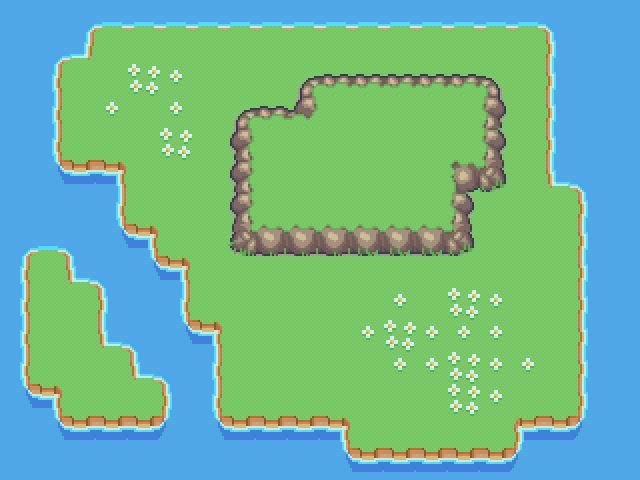
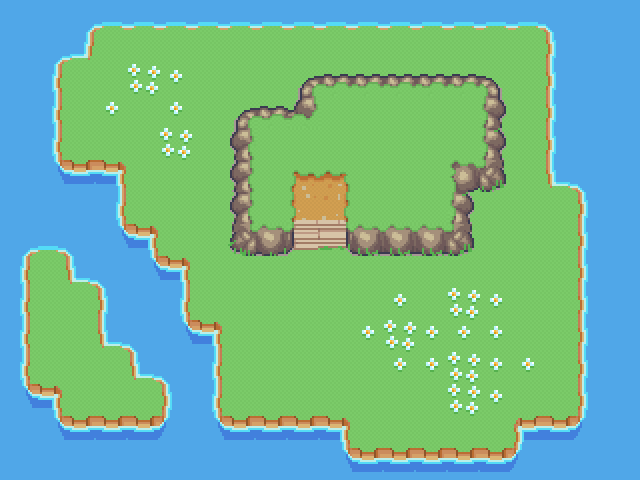
Added more main.py functionality and error tiles display

Changed region(s): [[0.4375, 0.3438, 0.5625, 0.5312]]

diff --git a/map.py b/map.py
@@ -1,8 +1,6 @@
-from PIL import Image, ImageChops
+from PIL import Image
 import pygame
 import const
-import random
-from math import sqrt, ceil
 from tile import Tile
 
 pygame.init()
@@ -12,17 +10,20 @@ class Map:
         self.rows = rows
         self.columns = columns
         self.sample_image = Image.open(sample_image_path).convert('RGBA')
-        self.tileset = []#Pillow -> Image
-        self.tileset_images = []#Pygame -> Surface
-        self.sample_map = []
+        self.tileset = []#Pygame -> Surface
+        self.tileset_images = []#Pillow -> Image
 
+        self.sample_map = []
         self.constraints = []
 
+        self.parse_tileset()
+        self.calculate_constraints()
+
     def unique_tile(self, image):
-        if (len(self.tileset) == 0):
+        if (len(self.tileset_images) == 0):
             return -1
         
-        for index, tile in enumerate(self.tileset):
+        for index, tile in enumerate(self.tileset_images):
             if list(tile.getdata()) == list(image.getdata()):
                 return index
         
@@ -42,19 +43,21 @@ class Map:
                 image_row.append(image)
                 if image.getextrema()[3][0] != 0:
                     if self.unique_tile(image) == -1:
-                        self.tileset.append(image)
+                        self.tileset_images.append(image)
 
-                        self.tileset_images.append(const.image_to_surface(image))
+                        self.tileset.append(const.image_to_surface(image))
             image_map.append(image_row)
 
-        self.sample_map = [[Tile(r, c, self.tileset_images, True, 0) for c in range(image_columns)] for r in range(image_rows)]
+        self.sample_map = [[Tile(r, c, self.tileset, True, 0) for c in range(image_columns)] for r in range(image_rows)]
         for row, image_row in enumerate(image_map):
             for column, image in enumerate(image_row):
                 self.sample_map[row][column].tile = self.unique_tile(image)
 
+    #Return the indexes of top, bottom, left and right neighbors of a given index
     def find_neighboring_sides(self, row, column):
         # 0 = top side, 1 = bottom side, 2 = left side, 3 = right side
-        return [(row-1, column), (row+1, column), (row, column-1), (row, column+1)]
+        neighboring_sides = [(row-1, column) if row > 0 else None, (row+1, column) if row < self.rows-1 else None, (row, column-1) if column > 0 else None, (row, column+1)  if column < self.columns-1 else None]
+        return filter(lambda val: val !=  None, neighboring_sides)
 
     # Calculates the allowed adjacent tiles to each tile type
     def calculate_constraints(self):
@@ -79,99 +82,18 @@ class Map:
             for c, tile in enumerate(row):
                 tile.draw(offset, screen)
 
-    # Takes a contraints list and inverts each side's set
-    def invert_adjacent(self, adjacent):
-        constraint = []
-        for side in adjacent:
-            constraint_side = set()
-            for i in range(len(self.tileset)):
-                if i not in side:
-                    constraint_side.add(i)
-            constraint.append(constraint_side)
-        return constraint
-
     # Takes a 2d array of Tiles and returns an 2d array of surfaces using the tileset
-    def map_to_surfaces(self, map):
+    @staticmethod
+    def map_to_surfaces(map, tileset):
         new_map = []
 
         for row in map:
             new_row = []
             for tile in row:
                 if tile.get_entropy() == 1:
-                    new_row.append(self.tileset_images[tile.tile])
+                    new_row.append(tileset[tile.tile])
                 else:
                     new_row.append(None)
             new_map.append(new_row)
         
         return new_map
-
-    # Generates a new pseudo-random map to the sample map
-    def generate_map(self):
-        generated_map = [[Tile(row, column, self.tileset_images) for column in range(self.columns)] for row in range(self.rows)]
-
-        error_tiles = []
-
-        def propagate(map, row, column):
-            to_change = [(row, column)]
-
-            while len(to_change) != 0:
-                for row, column in to_change.copy():
-                    p_tile = map[row][column]
-
-                    if p_tile.get_entropy() > 0:
-                        #get contraints from collapsed tile
-                        p_constraint = [set(), set(), set(), set()]
-                        if p_tile.collapsed:
-                            p_constraint = self.constraints[p_tile.tile]
-                        else:
-                            for possibility in p_tile.wave:
-                                for i, side in enumerate(self.constraints[possibility]):
-                                    p_constraint[i] = p_constraint[i].union(side)
-                        #We need to remove the possibilites THAT AREN'T in p_contraint, so we invert it to check
-                        p_constraint = self.invert_adjacent(p_constraint)
-
-                        p_neighbors = self.find_neighboring_sides(row, column)
-                        side_coords = p_tile.update_neighbors(map, p_neighbors, p_constraint)
-                        for side_coord in side_coords:
-                            if side_coord not in to_change:
-                                to_change.append(side_coord)
-                            
-                            if map[side_coord[0]][side_coord[1]].get_entropy() == 0:
-                                error_tiles.append(side_coord)
-
-                    p_tile.counter += 1
-                    to_change.remove((row, column))
-
-        def find_next_tile(map):
-            lowest_entropy = len(self.tileset)+1
-            lowest_coords = []
-
-            for row in range(len(map)):
-                for column in range(len(map[row])):
-                    tile = map[row][column]
-                    if not tile.collapsed:
-                        tile_entropy = tile.get_entropy()
-                        if 0 < tile_entropy < lowest_entropy:
-                            lowest_entropy = tile_entropy
-                            lowest_coords = [(row, column)]
-                        elif tile_entropy == lowest_entropy:
-                            lowest_coords.append((row, column))
-            if len(lowest_coords) != 0:
-                return lowest_coords[random.randint(0, len(lowest_coords)-1)]
-
-        def collapse_tile(map, row, column):
-            map[row][column].tile = map[row][column].wave[random.randrange(len(map[row][column].wave))]
-
-            map[row][column].collapsed = True
-
-        while (next_tile := find_next_tile(generated_map)) != None:
-            current_row = next_tile[0]
-            current_column = next_tile[1]
-            collapse_tile(generated_map, current_row, current_column)
-
-            propagate(generated_map, current_row, current_column)
-
-        for row in generated_map:
-            print([tile.counter for tile in row])
-
-        return generated_map, error_tiles

diff --git a/generator.py b/generator.py
@@ -1,0 +1,89 @@
+import random
+from tile import Tile
+from map import Map
+
+class Generator:
+    @staticmethod
+    def propagate(map, function, error_tiles, row, column):
+        to_change = [(row, column)]
+
+        while len(to_change) != 0:
+            for row, column in to_change.copy():
+                p_tile = function[row][column]
+
+                if p_tile.get_entropy() > 0:
+                    #get contraints from collapsed tile
+                    p_constraint = [set(), set(), set(), set()]
+                    if p_tile.collapsed:
+                        p_constraint = map.constraints[p_tile.tile]
+                    else:
+                        for possibility in p_tile.wave:
+                            for i, side in enumerate(map.constraints[possibility]):
+                                p_constraint[i] = p_constraint[i].union(side)
+                    #We need to remove the possibilites THAT AREN'T in p_contraint, so we invert it to check
+                    p_constraint = Generator.invert_adjacent(p_constraint, len(map.tileset))
+
+                    p_neighbors = map.find_neighboring_sides(row, column)
+                    side_coords = p_tile.update_neighbors(function, p_neighbors, p_constraint)
+                    for side_coord in side_coords:
+                        if side_coord not in to_change:
+                            to_change.append(side_coord)
+                        
+                        if function[side_coord[0]][side_coord[1]].get_entropy() == 0:
+                            error_tiles.append(side_coord)
+
+                p_tile.counter += 1
+                to_change.remove((row, column))
+        
+        return function, error_tiles
+
+    @staticmethod
+    def find_next_tile(function, tileset):
+        lowest_entropy = len(tileset)+1
+        lowest_coords = []
+
+        for row in range(len(function)):
+            for column in range(len(function[row])):
+                tile = function[row][column]
+                if not tile.collapsed:
+                    tile_entropy = tile.get_entropy()
+                    if 0 < tile_entropy < lowest_entropy:
+                        lowest_entropy = tile_entropy
+                        lowest_coords = [(row, column)]
+                    elif tile_entropy == lowest_entropy:
+                        lowest_coords.append((row, column))
+        if len(lowest_coords) != 0:
+            return lowest_coords[random.randint(0, len(lowest_coords)-1)]
+
+    @staticmethod
+    def collapse_tile(function, row, column):
+        function[row][column].tile = function[row][column].wave[random.randrange(len(function[row][column].wave))]
+
+        function[row][column].collapsed = True
+
+    # Takes a contraints list and inverts each side's set
+    @staticmethod
+    def invert_adjacent(adjacent, num_of_tiles):
+        constraint = []
+        for side in adjacent:
+            constraint_side = set()
+            for i in range(num_of_tiles):
+                if i not in side:
+                    constraint_side.add(i)
+            constraint.append(constraint_side)
+        return constraint
+
+    @staticmethod
+    def generate(map):
+        generated_map = [[Tile(row, column, map.tileset) for column in range(map.columns)] for row in range(map.rows)]
+
+        error_tiles = []
+
+        while (next_tile := Generator.find_next_tile(generated_map, map.tileset)) != None:
+            current_row = next_tile[0]
+            current_column = next_tile[1]
+            Generator.collapse_tile(generated_map, current_row, current_column)
+
+            generated_map, error_tiles = Generator.propagate(map, generated_map, error_tiles, current_row, current_column)
+
+        return generated_map, error_tiles

diff --git a/main.py b/main.py
@@ -1,6 +1,8 @@
 import pygame
 import const
+from generator import Generator
 from map import Map
+from tile import Tile
 
 pygame.init()
 
@@ -12,18 +14,19 @@ screen = pygame.display.set_mode((WIDTH, HEIGHT))
 
 clock = pygame.time.Clock()
 
-map = Map(50, 50, const.SAMPLE_IMAGE_PATH)
-map.parse_tileset()
-map.calculate_constraints()
+map = Map(30, 30, const.SAMPLE_IMAGE_PATH)
 
+# new_map, error_tiles = Generator.generate(map)
+# new_map_image = const.surfaces_to_image(len(new_map) * const.TILE_SIZE, len(new_map[0]) * const.TILE_SIZE, Map.map_to_surfaces(new_map, map.tileset))
 
-new_map, error_tiles = map.generate_map()
-new_map_image = const.surface_to_image(len(new_map) * const.TILE_SIZE, len(new_map[0]) * const.TILE_SIZE, map.map_to_surfaces(new_map))
+new_map = [[Tile(row, column, map.tileset) for column in range(map.columns)] for row in range(map.rows)]
+new_map_image = pygame.Surface((0, 0))
+error_tiles = []
 
-# while error_tiles == []:
-#     new_map, error_tiles = map.generate_map()
+generate_map = True
 
-draw_map_array = False
+draw_map_array = True
+draw_error_tiles = False
 
 def redrawGameWindow():
     screen.fill((255, 255, 255))
@@ -32,6 +35,10 @@ def redrawGameWindow():
         map.draw_map(screen, new_map, scroll)
     else:
         screen.blit(new_map_image, scroll)
+
+    if draw_error_tiles:
+        for tile in error_tiles:
+            pygame.draw.rect(screen, (255, 0, 0), [tile[1]*TILE_SIZE+scroll[0], tile[0]*TILE_SIZE+scroll[1], TILE_SIZE, TILE_SIZE])
     # map.draw_map(screen, map.sample_map, [map.columns*const.TILE_SIZE+scroll[0], scroll[1]])
 
     pygame.display.update()
@@ -49,13 +56,19 @@ while running:
         if event.type == pygame.KEYDOWN:
             if event.key == pygame.K_LCTRL:
                 running = False
-            
+
+            if event.key == pygame.K_e:
+                draw_error_tiles = not draw_error_tiles
+
             if event.key == pygame.K_SPACE:
                 draw_map_array = not draw_map_array
             
             if event.key == pygame.K_r:
-                new_map = map.generate_map()
-                new_map_image = const.surface_to_image(len(new_map) * const.TILE_SIZE, len(new_map[0]) * const.TILE_SIZE, map.map_to_surfaces(new_map))
+                new_map = [[Tile(row, column, map.tileset) for column in range(map.columns)] for row in range(map.rows)]
+                new_map_image = pygame.Surface((0, 0))
+                error_tiles = []
+
+                generate_map = True
 
     keyboard = pygame.key.get_pressed()
 
@@ -71,5 +84,16 @@ while running:
     if keyboard[pygame.K_DOWN]:
         scroll[1] -= scrol_speed
     
+    if generate_map and (next_tile := Generator.find_next_tile(new_map, map.tileset)) != None:
+        current_row = next_tile[0]
+        current_column = next_tile[1]
+        Generator.collapse_tile(new_map, current_row, current_column)
+
+        new_map, error_tiles = Generator.propagate(map, new_map, error_tiles, current_row, current_column)
+    elif generate_map:
+        generate_map = False
+        new_map_image = const.surfaces_to_image(len(new_map) * const.TILE_SIZE, len(new_map[0]) * const.TILE_SIZE, Map.map_to_surfaces(new_map, map.tileset))
+        print("New Map Generated.")
+
     redrawGameWindow()
 pygame.quit()

diff --git a/const.py b/const.py
@@ -1,10 +1,11 @@
 import pygame
 
-SAMPLE_IMAGE_PATH = "images/sample_image.png"
+# SAMPLE_IMAGE_PATH = "images/sample_image.png"
+SAMPLE_IMAGE_PATH = "images/error_sample_image.png"
 
 FPS = 60
 
-TILE_SIZE = 16
+TILE_SIZE = 32
 
 def image_to_surface(image):
     # Calculate mode, size and data
@@ -14,7 +15,7 @@ def image_to_surface(image):
 
     return pygame.image.fromstring(data, size, mode)
 
-def surface_to_image(width, height, surfaces):
+def surfaces_to_image(width, height, surfaces):
     surface = pygame.Surface((width, height))
     surface.fill((255, 255, 255))
 
